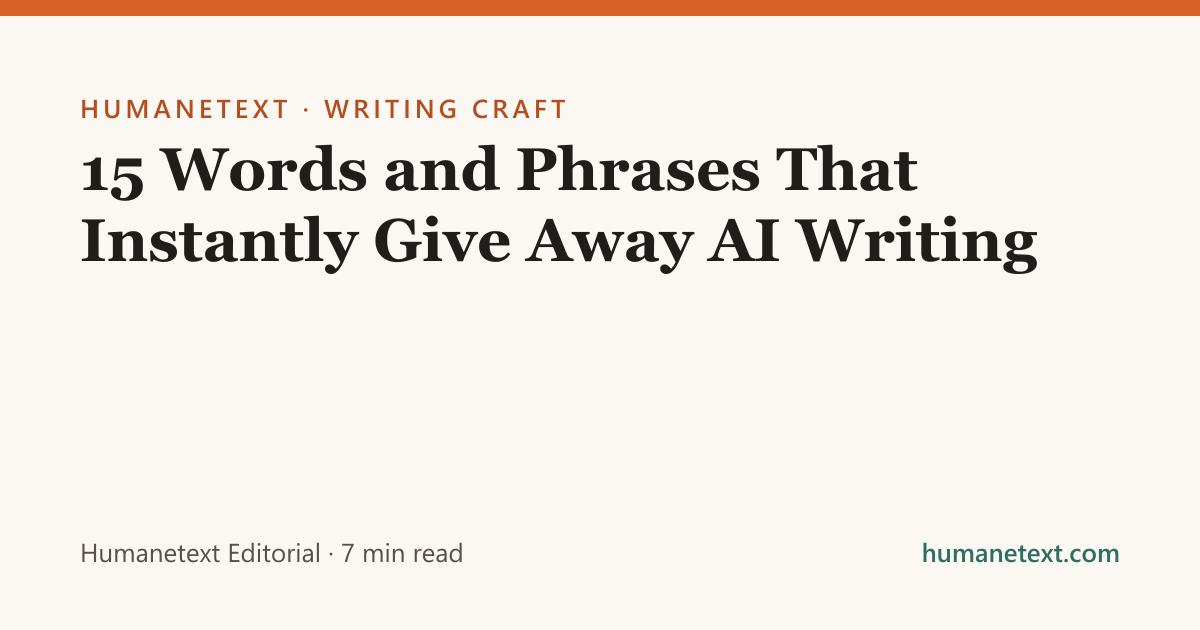
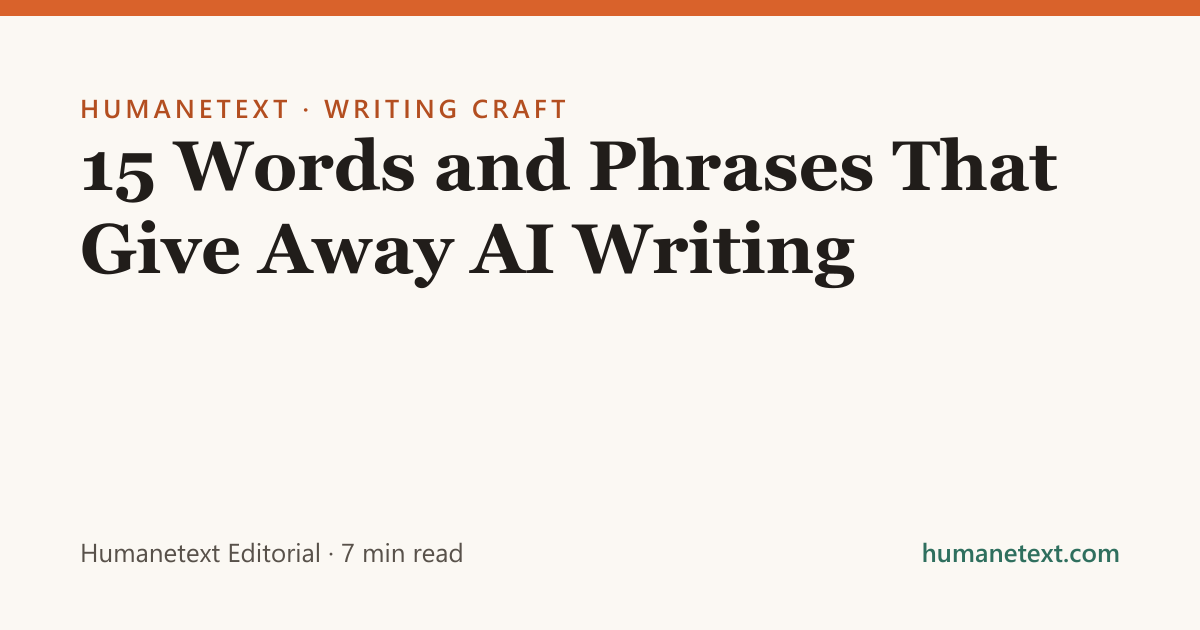
SEO: fix truncated titles and descriptions, drop unused font, add 404
Search Console showed 543 impressions producing 2 clicks. Some of that is
a two-week-old domain sitting at position 65, but the snippet itself was
also working against us.

- Every one of the 30 article titles was being truncated in results. The
  " | Humanetext" template alone cost 13 of the ~60 available characters,
  so article titles now set `title.absolute` to drop it, and the 12
  longest headlines were rewritten to fit. Other pages keep the brand.
- 19 meta descriptions ran past 160 characters and were cut mid-sentence.
  All rewritten to land in the 105-160 range with the useful part first.
- Removed Geist_Mono. It was downloaded on every page and referenced only
  by a CSS variable nothing consumed.
- Removed the WebSite SearchAction schema. It advertised /blog?q= as a
  search endpoint, and no search was ever implemented — invalid markup
  describing a page behaviour that does not exist.
- Added a real 404 page: correct status, noindex, and onward links to the
  tools, categories, and recent articles instead of a dead end.

Changed region(s): [[0.0617, 0.2111, 0.8942, 0.4825]]

diff --git a/src/app/not-found.tsx b/src/app/not-found.tsx
@@ -1,0 +1,93 @@
+import type { Metadata } from "next";
+import Link from "next/link";
+import { CATEGORIES, getAllPosts, type CategorySlug } from "@/lib/posts";
+
+export const metadata: Metadata = {
+  title: "Page not found",
+  description: "That page doesn't exist. Here's where to find what you were looking for.",
+  // A 404 should never be indexed, and without this Next leaves it open to
+  // crawling like any other route.
+  robots: { index: false, follow: true },
+};
+
+export default function NotFound() {
+  const recent = getAllPosts().slice(0, 4);
+  const categories = Object.keys(CATEGORIES) as CategorySlug[];
+
+  return (
+    <div className="mx-auto w-full max-w-2xl px-6 py-20">
+      <p className="text-sm font-medium uppercase tracking-wide text-accent-dark">
+        404
+      </p>
+      <h1 className="font-display mt-2 text-4xl font-semibold tracking-tight">
+        That page doesn&apos;t exist
+      </h1>
+      <p className="mt-4 text-lg text-ink-soft">
+        The link may be out of date, or the address may have a typo in it.
+        Everything below still works.
+      </p>
+
+      <div className="mt-10">
+        <h2 className="text-sm font-semibold uppercase tracking-wide text-ink-soft">
+          The tools
+        </h2>
+        <div className="mt-3 flex flex-wrap gap-3">
+          <Link
+            href="/humanize-text"
+            className="rounded-full bg-accent px-5 py-2 text-sm font-semibold text-white transition-colors hover:bg-accent-dark"
+          >
+            Text Humanizer
+          </Link>
+          <Link
+            href="/humanize-photo"
+            className="rounded-full border border-line px-5 py-2 text-sm font-semibold transition-colors hover:border-accent hover:text-accent-dark"
+          >
+            Photo Humanizer
+          </Link>
+        </div>
+      </div>
+
+      <div className="mt-10">
+        <h2 className="text-sm font-semibold uppercase tracking-wide text-ink-soft">
+          Browse by topic
+        </h2>
+        <div className="mt-3 flex flex-wrap gap-2">
+          {categories.map((slug) => (
+            <Link
+              key={slug}
+              href={`/blog/category/${slug}`}
+              className="rounded-full border border-line px-4 py-1.5 text-sm text-ink-soft transition-colors hover:border-accent hover:text-accent-dark"
+            >
+              {CATEGORIES[slug].label}
+            </Link>
+          ))}
+        </div>
+      </div>
+
+      <div className="mt-10">
+        <h2 className="text-sm font-semibold uppercase tracking-wide text-ink-soft">
+          Recent articles
+        </h2>
+        <ul className="mt-3 space-y-3">
+          {recent.map((post) => (
+            <li key={post.slug}>
+              <Link href={`/blog/${post.slug}`} className="group block">
+                <span className="font-medium group-hover:text-accent-dark">
+                  {post.title}
+                </span>
+                <span className="mt-0.5 block text-sm text-ink-soft">
+                  {post.description}
+                </span>
+              </Link>
+            </li>
+          ))}
+        </ul>
+      </div>
+
+      <p className="mt-10 text-sm text-ink-soft">
+        Still stuck? <Link href="/contact" className="text-accent-dark hover:underline">Tell us</Link>{" "}
+        which link sent you here and we&apos;ll fix it.
+      </p>
+    </div>
+  );
+}

diff --git a/src/app/layout.tsx b/src/app/layout.tsx
@@ -1,16 +1,11 @@
 import type { Metadata } from "next";
-import { Geist, Geist_Mono, Source_Serif_4 } from "next/font/google";
+import { Geist, Source_Serif_4 } from "next/font/google";
 import "./globals.css";
 import Nav from "@/components/Nav";
 import Footer from "@/components/Footer";
 
 const geistSans = Geist({
   variable: "--font-geist-sans",
-  subsets: ["latin"],
-});
-
-const geistMono = Geist_Mono({
-  variable: "--font-geist-mono",
   subsets: ["latin"],
 });
 
@@ -78,11 +73,6 @@ const WEBSITE_JSON_LD = {
   "@type": "WebSite",
   name: "Humanetext",
   url: SITE_URL,
-  potentialAction: {
-    "@type": "SearchAction",
-    target: `${SITE_URL}/blog?q={search_term_string}`,
-    "query-input": "required name=search_term_string",
-  },
 };
 
 export default function RootLayout({
@@ -93,7 +83,7 @@ export default function RootLayout({
   return (
     <html
       lang="en"
-      className={`${geistSans.variable} ${geistMono.variable} ${sourceSerif.variable} h-full antialiased`}
+      className={`${geistSans.variable} ${sourceSerif.variable} h-full antialiased`}
     >
       <body className="flex min-h-full flex-col bg-paper text-ink">
         <script

diff --git a/src/app/blog/[slug]/page.tsx b/src/app/blog/[slug]/page.tsx
@@ -27,7 +27,9 @@ export async function generateMetadata({
   const post = getPostBySlug(slug);
   if (!post) return {};
   return {
-    title: post.title,
+    // `absolute` drops the " | Humanetext" suffix. Google truncates titles
+    // near 60 characters and the brand was pushing every headline over.
+    title: { absolute: post.title },
     description: post.description,
     keywords: post.keywords.length ? post.keywords : undefined,
     authors: [{ name: AUTHOR.name }],

diff --git a/src/app/globals.css b/src/app/globals.css
@@ -26,7 +26,6 @@
   --color-teal-soft: var(--teal-soft);
   --color-line: var(--line);
   --font-sans: var(--font-geist-sans);
-  --font-mono: var(--font-geist-mono);
   --font-serif: var(--font-source-serif);
 }
 
